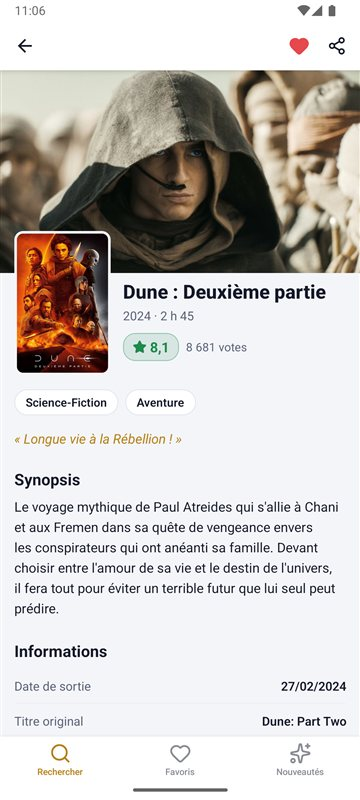
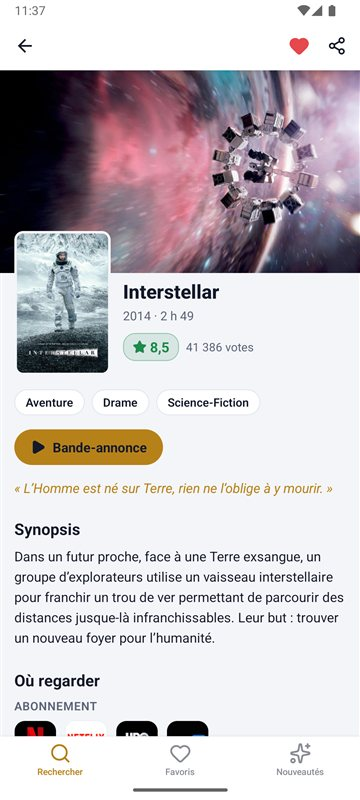
README : bande-annonce, « Où regarder » et nouvelles captures

diff --git a/README.md b/README.md
@@ -9,6 +9,7 @@ Application mobile React Native pour rechercher des films, consulter leur fiche 
   <img src="docs/screenshots/nouveautes.jpg" width="200" alt="Nouveautés" />
 </p>
 <p align="center">
+  <img src="docs/screenshots/ou-regarder.jpg" width="200" alt="Plateformes où regarder le film" />
   <img src="docs/screenshots/sombre-fiche.jpg" width="200" alt="Fiche d'un film en mode sombre" />
   <img src="docs/screenshots/sombre-favoris.jpg" width="200" alt="Favoris en mode sombre" />
 </p>
@@ -17,6 +18,8 @@ Application mobile React Native pour rechercher des films, consulter leur fiche 
 
 - **Recherche en direct** : les résultats s'affichent pendant la frappe et se chargent au fil du défilement
 - **Fiche détaillée** : image de fond, affiche, note, durée, genres, synopsis, budget, recettes et production
+- **Bande-annonce** ouverte dans YouTube, en français quand elle existe
+- **Où regarder** : les plateformes qui proposent le film en France (abonnement, gratuit, location, achat), données JustWatch
 - **Favoris** ajoutés depuis la fiche, conservés d'un lancement à l'autre, dans une vidéothèque avec photo de profil
 - **Nouveautés** : les sorties les plus récentes parmi les films ayant reçu au moins 1 000 votes, à rafraîchir en tirant la liste vers le bas
 - **Partage** d'un film vers une autre application, avec son lien TMDB
@@ -54,14 +57,14 @@ L'application a été testée sur Android (émulateur Android 15). La version iO
 npm test
 ```
 
-Les tests couvrent le démarrage de l'application, la mise en forme des données (dates, durées, notes, montants), la pagination sans doublons et le reducer des favoris.
+Les tests couvrent le démarrage de l'application, la mise en forme des données (dates, durées, notes, montants), le choix de la bande-annonce, le regroupement des plateformes, la pagination sans doublons et le reducer des favoris.
 
 ## Structure du projet
 
 ```
 API/          appels à l'API TMDB
 components/   écrans et composants : recherche, fiche, favoris, nouveautés, cartes, états vides…
-Helpers/      mise en forme des données
+Helpers/      mise en forme des données, bande-annonce et plateformes
 Hooks/        usePaginatedFilms : listes paginées, erreurs et rafraîchissement
 Navigation/   onglets et piles d'écrans
 Store/        store Redux et reducers
